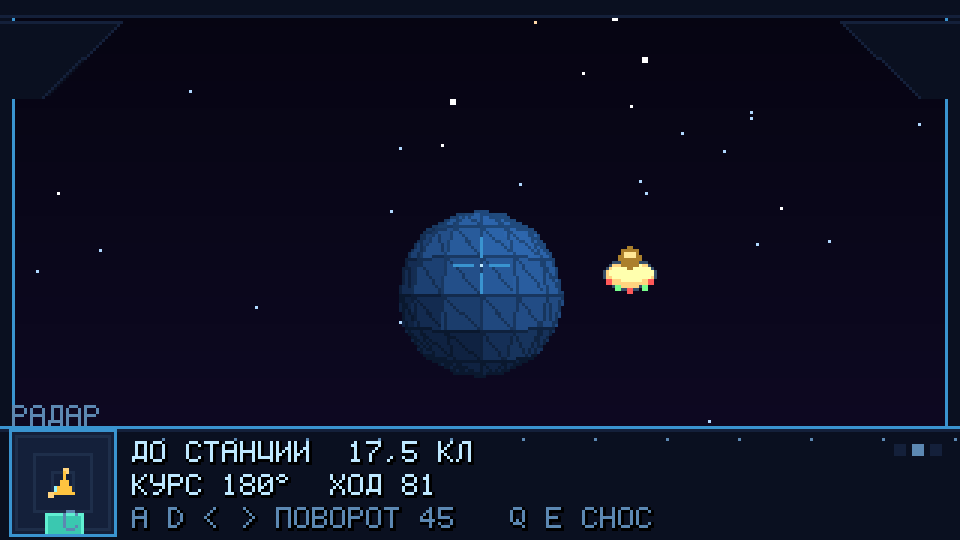
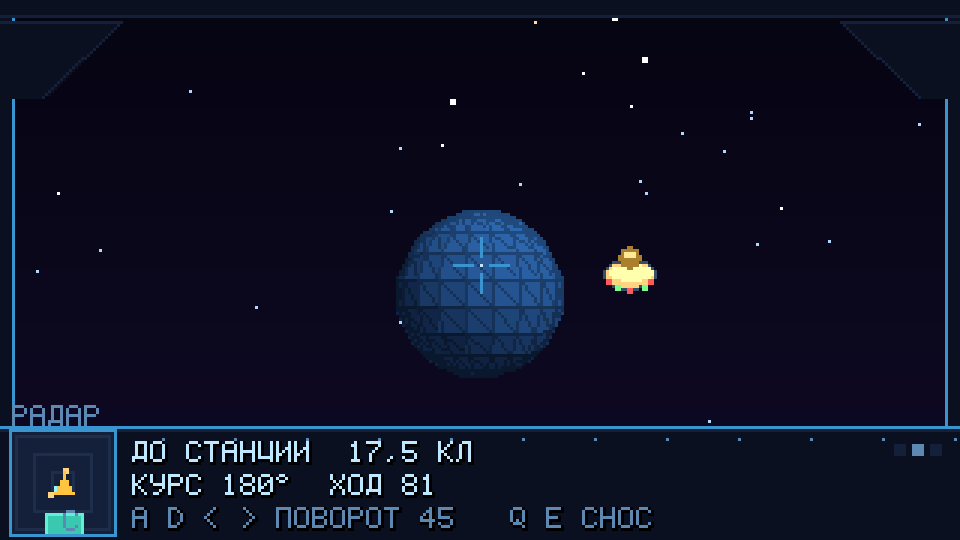
Удвоил сетку планеты: 440 треугольников вместо 224
Было 8 колец по широте и 16 долей по долготе (224 грани), стало 11 и 22 (440).
Шаг по широте и по долготе теперь одинаковый (~16,4 градуса), поэтому фасетки
квадратные, а не вытянутыми полосками. Редкая сетка вдали — 5 на 11 (88 граней)
вместо 4 на 8.

Силуэт от этого стал точнее: совпадение с расчётом луч-сфера поднялось
(вплотную 90 -> 92%, 10 кл вдоль 97 -> 98%, вкось 94 -> 95%). В кадре теперь
~154 видимые грани у планеты впереди; кадр 1,1-2,1 мс (было 0,9-1,5), то есть
запас до бюджета 8-10 мс остался большой.

selftest: 137 проверок, 0 провалов.

Changed region(s): [[0.4062, 0.3852, 0.5938, 0.6815]]

diff --git a/src/config.py b/src/config.py
@@ -77,10 +77,12 @@ PLANET_R = 100.0       # радиус планеты, клеток (диамет
 PLANET_H = 0.9         # высота центра планеты: ровно на уровне глаза
 # Сетка полигонов (колец по широте и долей по долготе) и её упрощение вдали:
 # вблизи фасетки читаются, вдали мелкая сетка только сорит пикселями.
-PLANET_LAT = 8
-PLANET_LON = 16
-PLANET_LAT_SMALL = 4
-PLANET_LON_SMALL = 8
+# 11 и 22 дают 440 треугольников (было 224: удвоили) и квадратные фасетки —
+# шаг по широте и по долготе выходит одинаковым, ~16.4 градуса.
+PLANET_LAT = 11
+PLANET_LON = 22
+PLANET_LAT_SMALL = 5
+PLANET_LON_SMALL = 11
 PLANET_SIMPLE_AT = 14.0   # мк: ниже этого видимого радиуса берём редкую сетку
 # Свет задан В МИРОВЫХ осях (слева, со стороны станции, сверху): освещённая
 # сторона планеты не ездит за камерой, как было бы у камерного источника.
